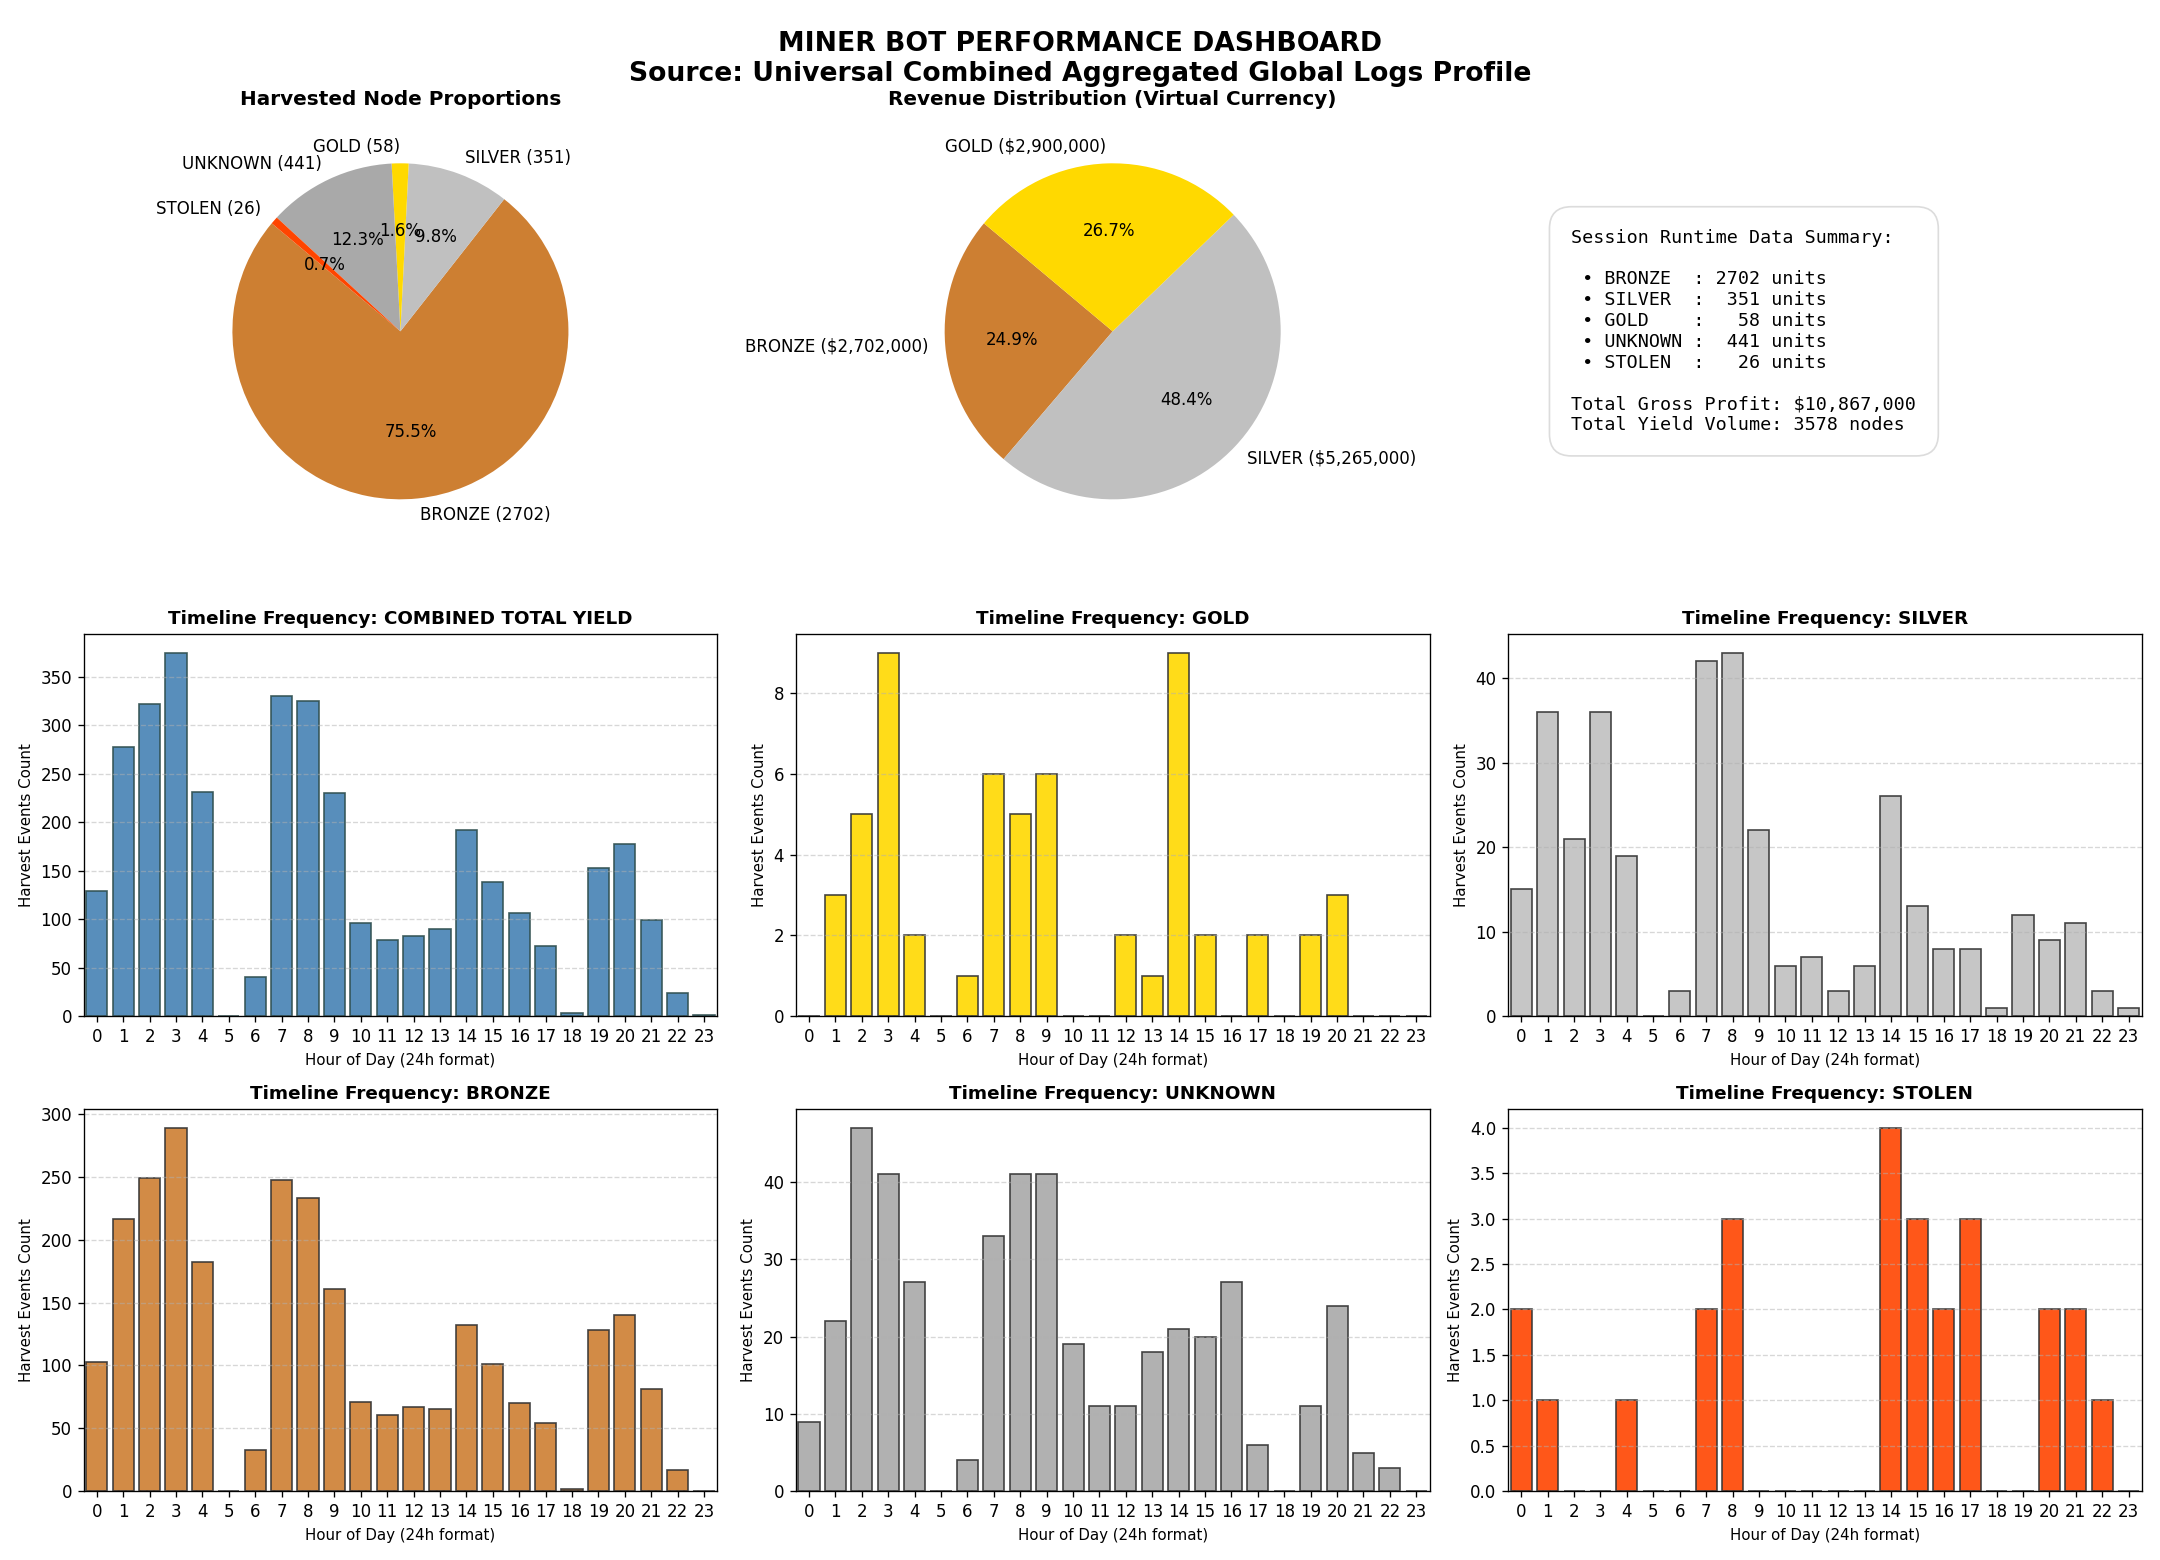
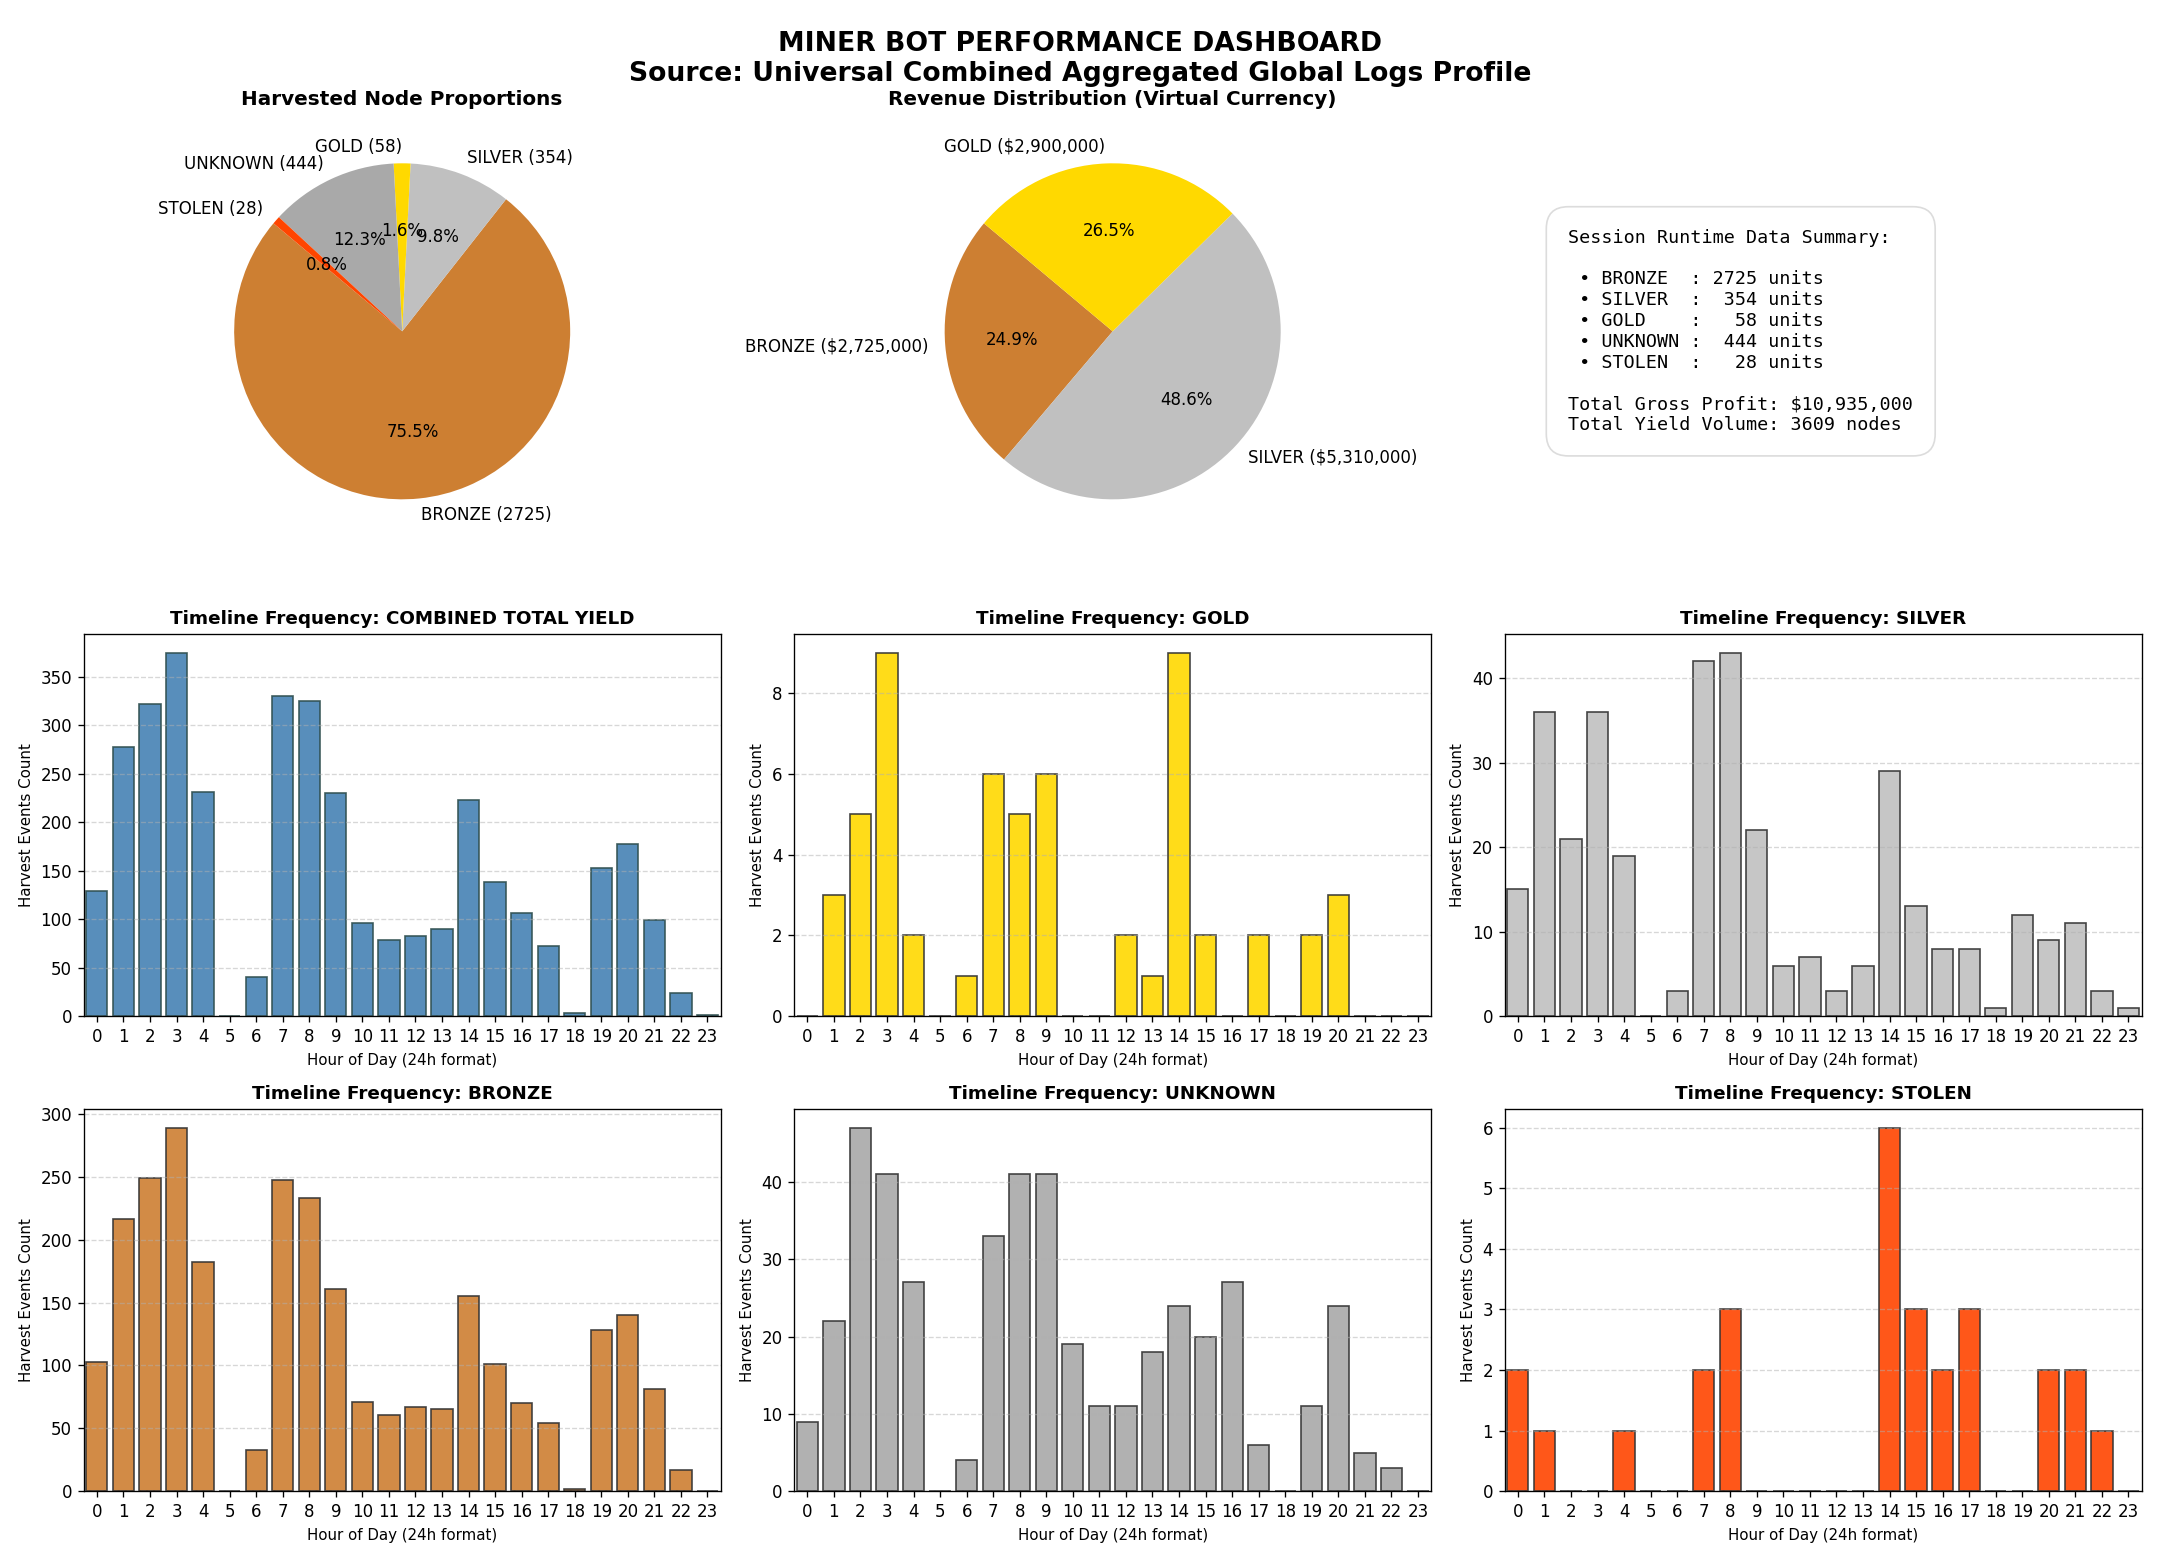
Changed statistics storing behaviour

diff --git a/analysis.py b/analysis.py
@@ -12,8 +12,10 @@ import matplotlib.pyplot as plt
 # ─────────────────────────────────────────────────────────────
 # CONFIGURATION & CONSTANTS
 # ─────────────────────────────────────────────────────────────
-INPUT_DIR = "statistics"
-OUTPUT_DIR = "analytics_output"
+PROJECT_ROOT = os.path.dirname(os.path.abspath(__file__))
+INPUT_DIR = os.path.join(PROJECT_ROOT, "statistics")
+OUTPUT_DIR = os.path.join(PROJECT_ROOT, "analytics_output")
+SESSION_OUTPUT_DIR = os.path.join(OUTPUT_DIR, "session_analytics_output")
 
 ORE_TYPES = ["bronze", "silver", "gold", "unknown", "stolen"]
 
@@ -114,14 +116,19 @@ def generate_dashboard(df, session_title, output_filename):
         ax.set_xticks(range(24))
         ax.set_xlim(-0.5, 23.5)
         ax.set_xlabel("Hour of Day (24h format)", fontsize=9)
-        ax.set_ylabel("Harvest Events Count", fontsize=9)
+        ax.set_ylabel("Average Events per Day", fontsize=9)
         ax.grid(axis='y', linestyle='--', alpha=0.5)
 
-    # 1. Composite Timeline (All Ores Aggregated)
+    # 1. Composite Timeline (Average events per hour across days)
+    # Compute average counts per hour normalized by day (average events per day for each hour)
+    df_dates = df.copy()
+    df_dates['date'] = df_dates['timestamp'].dt.date
+    per_day_hour = df_dates.groupby([df_dates['date'], df_dates['hour']]).size()
+    hourly_all = per_day_hour.groupby(level=1).mean().reindex(range(24), fill_value=0)
+
     ax_hist_all = fig.add_subplot(gs[1, 0])
-    hourly_all = df['hour'].value_counts().reindex(range(24), fill_value=0)
     ax_hist_all.bar(range(24), hourly_all, color='#4682B4', edgecolor='#2f4f4f', alpha=0.9)
-    format_histogram_axis(ax_hist_all, "Timeline Frequency: COMBINED TOTAL YIELD", '#4682B4')
+    format_histogram_axis(ax_hist_all, "Timeline: Average Events Per Hour (by day)", '#4682B4')
 
     # 2. Sequential distribution layout map for specific types
     layout_mapping = [
@@ -135,13 +142,19 @@ def generate_dashboard(df, session_title, output_filename):
     for ore_name, grid_cell in layout_mapping:
         ax_sub = fig.add_subplot(grid_cell)
         df_sub = df[df['ore_type'] == ore_name]
-        hourly_sub = df_sub['hour'].value_counts().reindex(range(24), fill_value=0)
-        
+        df_sub_dates = df_sub.copy()
+        df_sub_dates['date'] = df_sub_dates['timestamp'].dt.date
+        per_day_hour_sub = df_sub_dates.groupby([df_sub_dates['date'], df_sub_dates['hour']]).size()
+        hourly_sub = per_day_hour_sub.groupby(level=1).mean().reindex(range(24), fill_value=0)
+
         ax_sub.bar(range(24), hourly_sub, color=VISUAL_COLORS[ore_name], edgecolor='#333333', alpha=0.9)
-        format_histogram_axis(ax_sub, f"Timeline Frequency: {ore_name.upper()}", VISUAL_COLORS[ore_name])
+        format_histogram_axis(ax_sub, f"Timeline: Avg Events Per Hour - {ore_name.upper()}", VISUAL_COLORS[ore_name])
 
     plt.tight_layout()
-    output_path = os.path.join(OUTPUT_DIR, output_filename)
+    if os.path.isabs(output_filename):
+        output_path = output_filename
+    else:
+        output_path = os.path.join(OUTPUT_DIR, output_filename)
     plt.savefig(output_path, dpi=120)
     plt.close()
     print(f"[SUCCESS] Saved graphical dashboard representation -> {output_path}")
@@ -152,6 +165,11 @@ def main():
     
     # Secure storage directory architecture
     os.makedirs(OUTPUT_DIR, exist_ok=True)
+    os.makedirs(SESSION_OUTPUT_DIR, exist_ok=True)
+    for existing_name in os.listdir(OUTPUT_DIR):
+        existing_path = os.path.join(OUTPUT_DIR, existing_name)
+        if os.path.isfile(existing_path) and existing_name != "global_performance_dashboard.png":
+            os.remove(existing_path)
 
     # Gather log footprints matching the pattern
     search_pattern = os.path.join(INPUT_DIR, "stats_*.csv")
@@ -187,9 +205,10 @@ def main():
             print(df['ore_type'].value_counts().reindex(ORE_TYPES, fill_value=0).to_string())
             print(f"-------------------------------------------")
             
-            # Generate the dashboard file for this individual log
+                    # Generate the dashboard file for this individual log in the session-specific output directory
             dashboard_name = filename.replace(".csv", "_dashboard.png")
-            generate_dashboard(df, f"Individual Session File: {filename}", dashboard_name)
+            dashboard_path = os.path.join(SESSION_OUTPUT_DIR, dashboard_name)
+            generate_dashboard(df, f"Individual Session File: {filename}", dashboard_path)
             
         except Exception as e:
             print(f"[ERR] Failed compilation mapping sequence across track target {filename}: {e}")